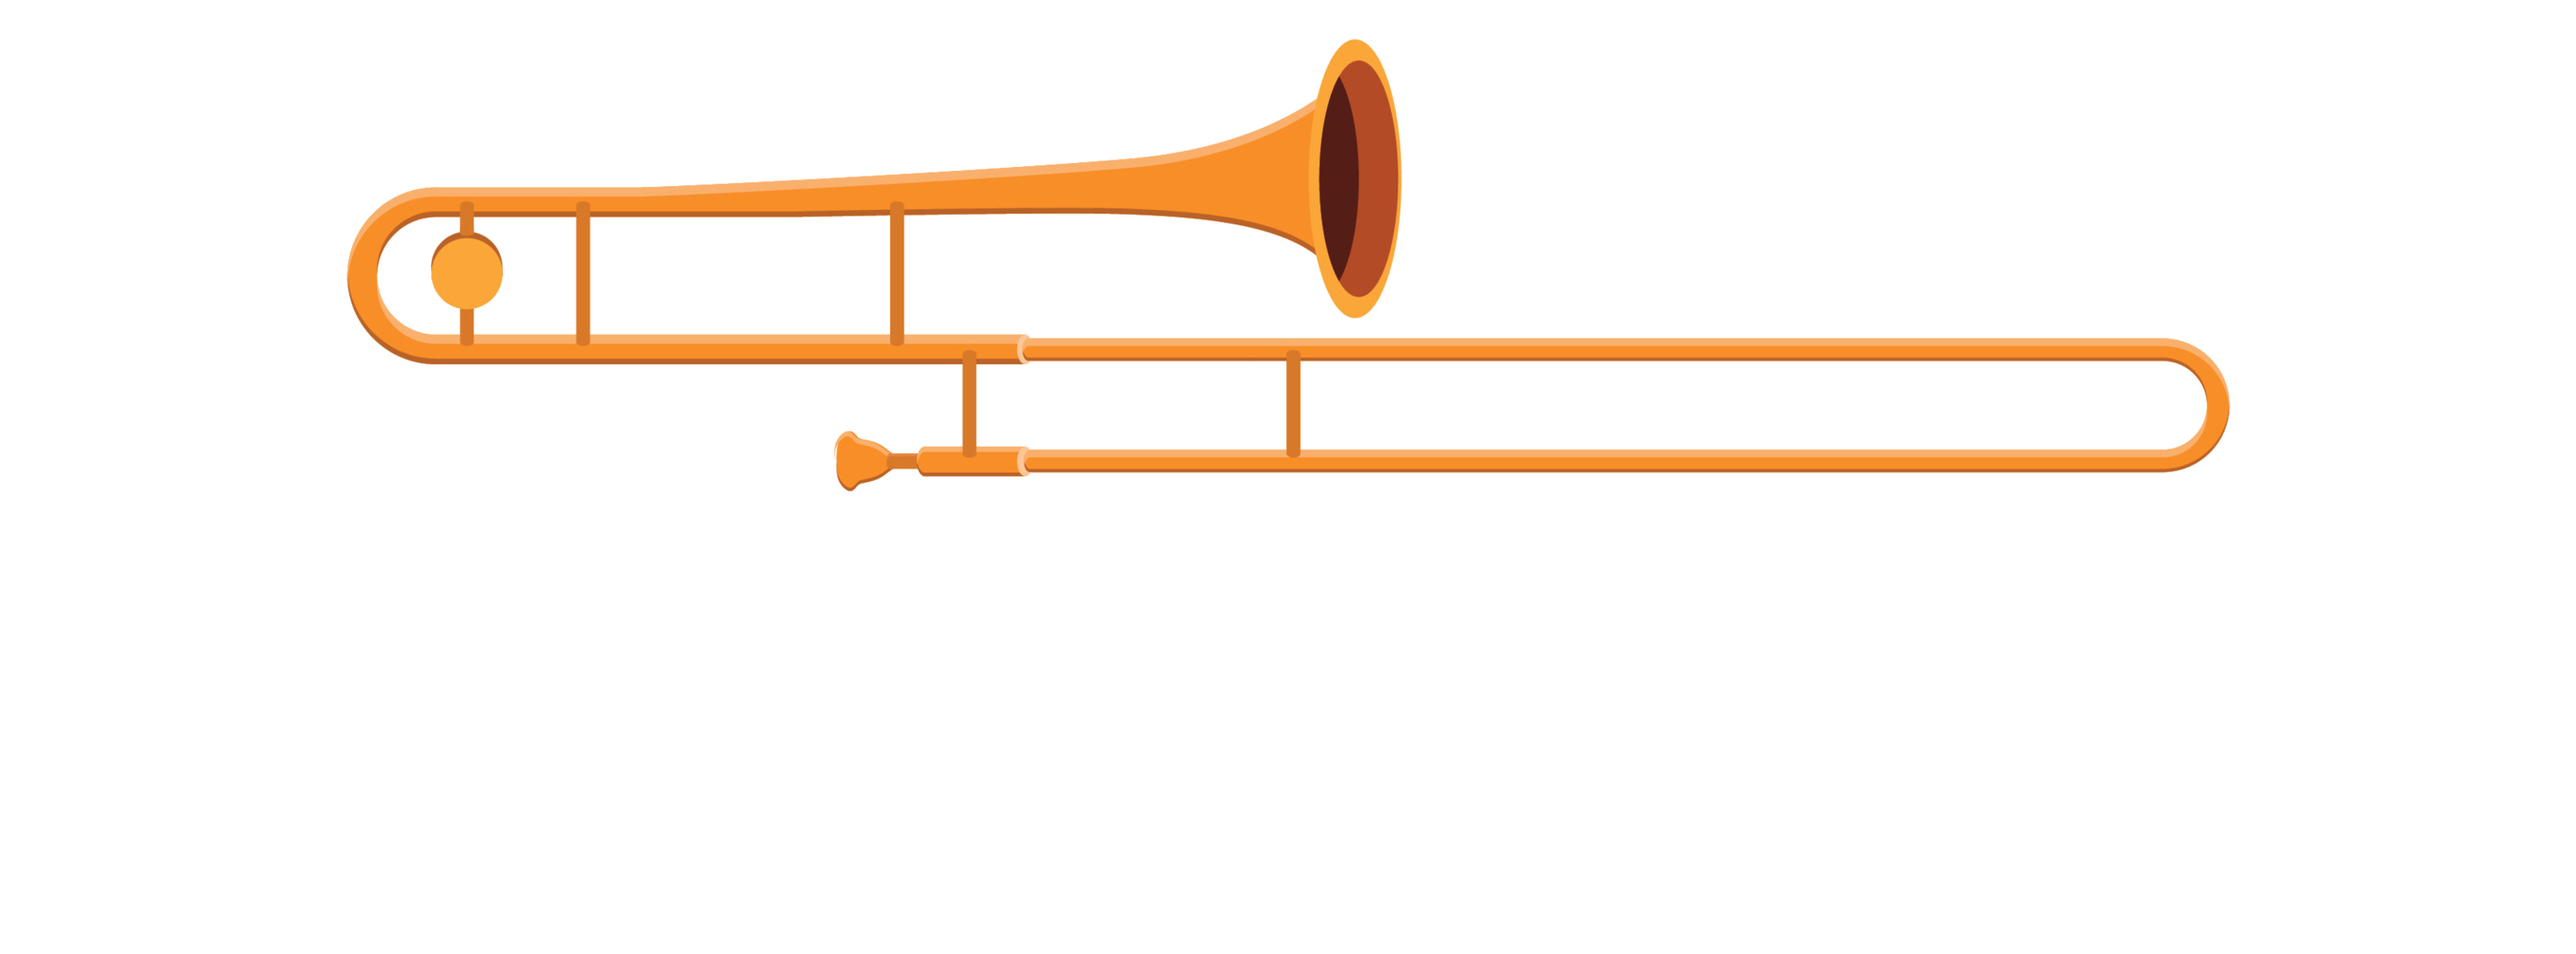
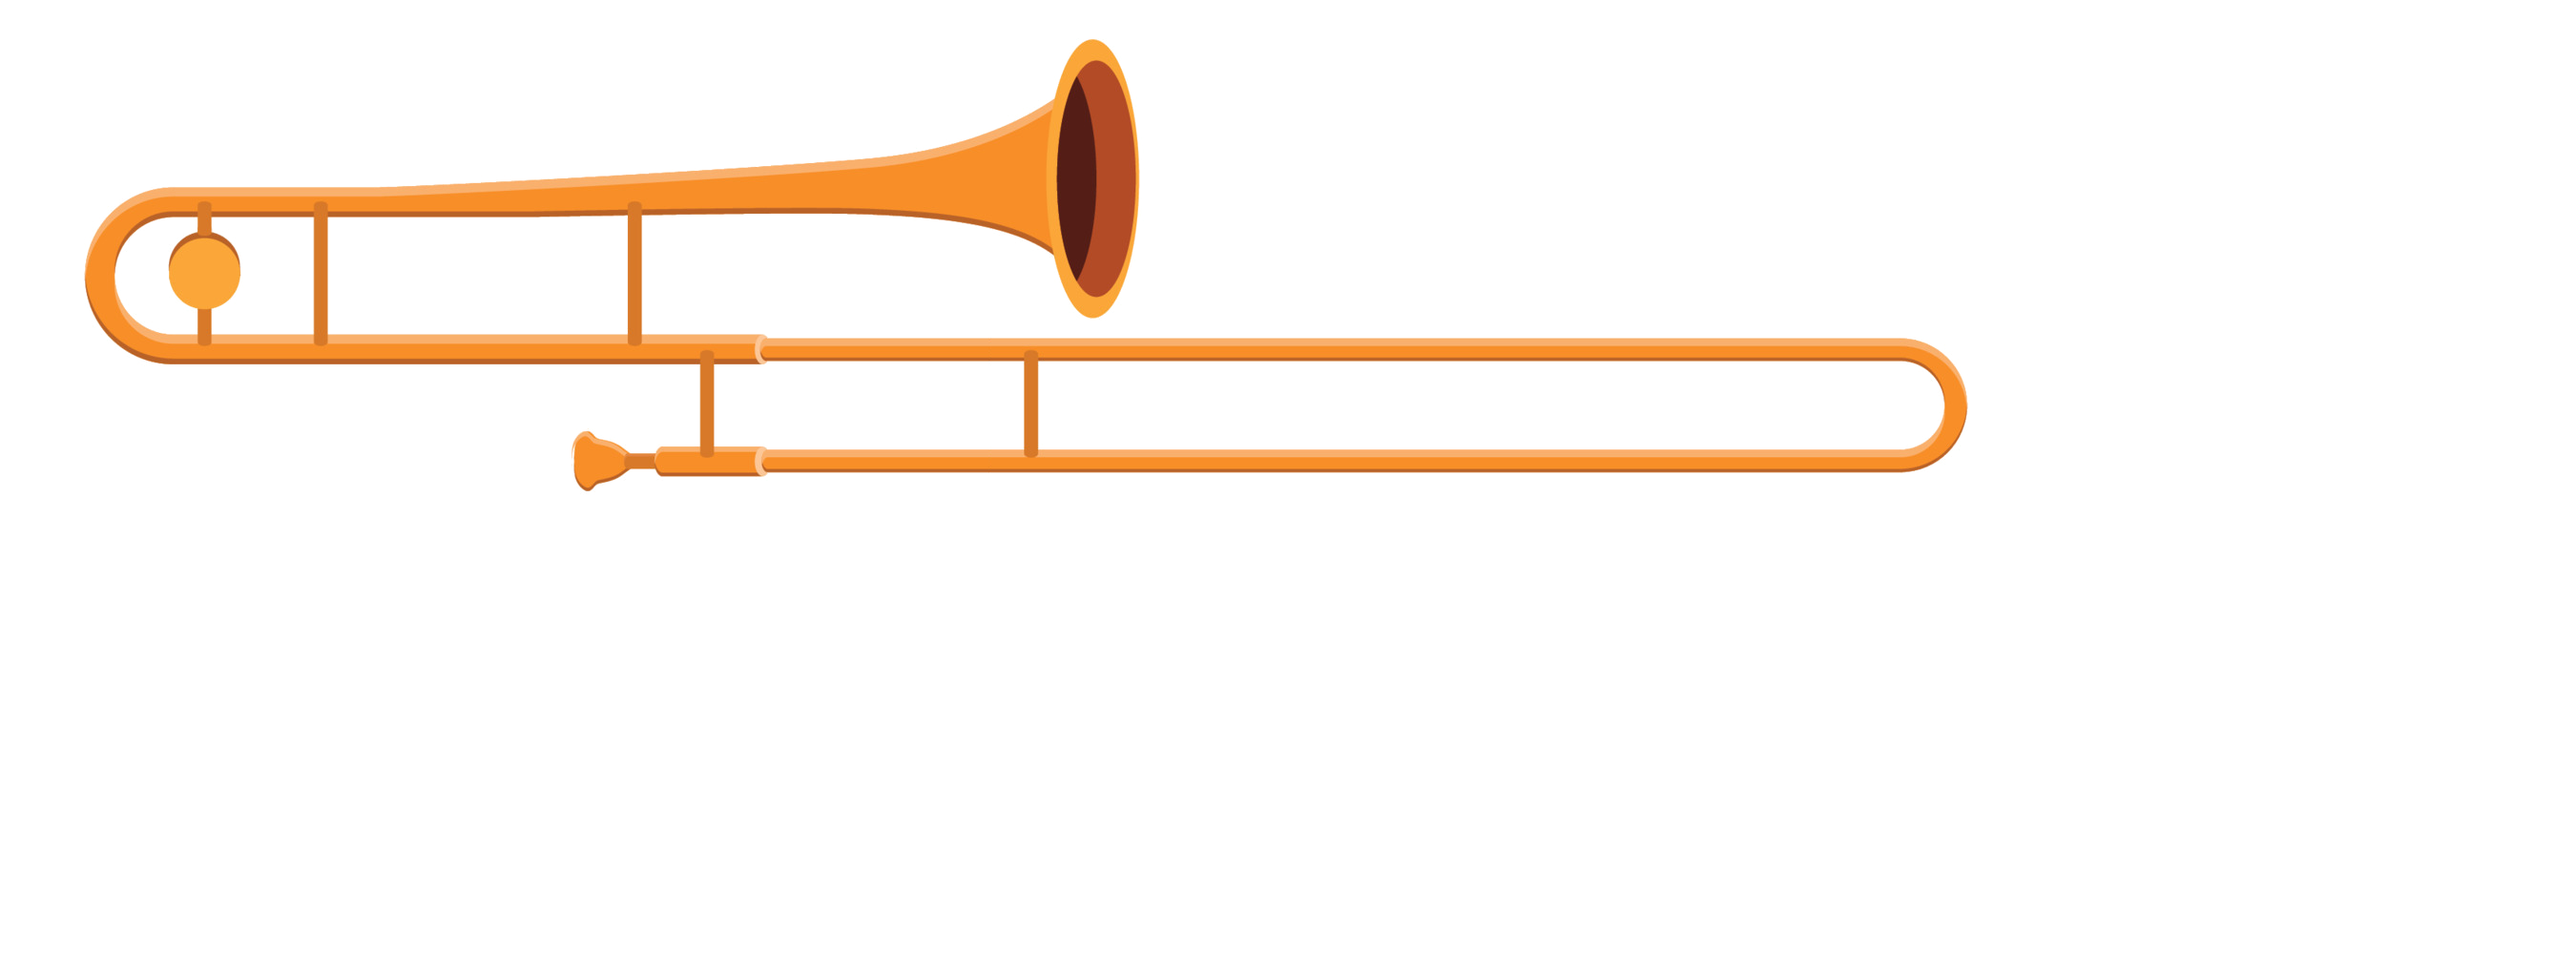
:lipstick: trombone drill — left-anchor artwork, bigger ruler labels

Changed region(s): [[0.0311, 0.031, 0.56, 0.527], [0.7467, 0.341, 0.8711, 0.496], [0.4978, 0.372, 0.5289, 0.465]]

diff --git a/web/src/styles/pages.css b/web/src/styles/pages.css
@@ -1338,14 +1338,13 @@
 }
 
 /* Ruler overlapping the bottom of the trombone, aligned to the brace travel
-   band of the image. Image is 2700x1000 (2.7:1); the slide brace travels
-   from x=1233 (pos-1) to x=1639 (pos-7), so the band is left:45.67%,
-   width:15.04% of the figure width. The image has ~230px of empty space
-   below the brace, so pulling the ruler up by 50px never covers it. */
+   band of the image. Image is 2700x1000 (2.7:1), artwork left-anchored
+   (body at x=88). The slide brace travels from x=842 (pos-1) to x=1639
+   (pos-7), so the band is left:31.19%, width:29.52% of the figure width. */
 .trombone-dragwell__ruler {
   position: relative;
-  width: 15.04%;
-  margin-left: 45.67%;
+  width: 29.52%;
+  margin-left: 31.19%;
   height: 44px;
   margin-top: -50px;
   pointer-events: none;
@@ -1384,11 +1383,11 @@
 .trombone-dragwell__ruler-tick-label {
   margin-top: 4px;
   font-family: var(--font-display);
-  font-size: var(--fs-xs);
+  font-size: var(--fs-sm);
   font-weight: 700;
   color: var(--ink-soft);
   line-height: 1;
-  padding: 1px 4px;
+  padding: 2px 6px;
   border-radius: var(--r-xs);
   background: var(--clay-white);
   box-shadow: var(--clay-inner-soft);

diff --git a/web/scripts/make_trombone_assets.py b/web/scripts/make_trombone_assets.py
@@ -37,10 +37,11 @@ GEOMETRY / METHOD:
   trims that away:
     * Y_OFFSET = 400 removes the empty band above the artwork, so it starts at
       y=40 (40 px of top padding) and ends at y=519.
-    * SHIFTS re-centers each variant: the slide layer moves with the body, so
-      the whole artwork (x 88 .. 1831 + E_p) is shifted by
-      1350 - (88 + 1831 + E_p) / 2 and lands centered on the canvas at every
-      position, with equal left/right margins (87 px at pos-7).
+    * The artwork is left-anchored (SHIFTS = 0): body at x=88, slide shifts
+      rightward by E_p. The right side of the canvas is intentionally empty
+      so the user can drag the visible trombone leftward through the slide
+      positions (pos-1 artwork is on the left, pos-7's extended slide
+      approaches the right edge).
   CSS in web/src/styles/pages.css keys off these numbers (ruler band, figure
   max-width, image max-height).
 """
@@ -67,18 +68,15 @@ OFFSETS = [0, 112, 231, 358, 492, 632, 782]
 N_POS = 7
 
 # -------------------------------------------------------------- new canvas
-CANVAS_W = 2700    # 87 px of margin either side of the pos-7 artwork
+CANVAS_W = 2700    # 88 px of left margin (artwork is left-anchored); pos-7 ends at x=2613
 CANVAS_H = 1000    # artwork occupies y 40..519; the rest is empty
 Y_OFFSET = 400     # trim the empty band above the artwork (topmost y is 440)
 
 
-def round_px(v: float) -> int:
-    """Round a pixel offset to the nearest whole pixel (halves away from zero)."""
-    return int(v + 0.5) if v >= 0 else -int(-v + 0.5)
-
-
-# Per-variant x shift that re-centers the artwork (slide included) on the canvas.
-SHIFTS = [round_px(CANVAS_W / 2 - (ART_X0 + CROOK_RIGHT_X1 + e) / 2) for e in OFFSETS]
+# Per-variant x shift. 0 = artwork stays at its source-px position
+# (left-anchored, mirroring the original 2742x1356 layout -- body at x=88,
+# slide shifts rightward with E_p).
+SHIFTS = [0] * N_POS
 
 # ---------------------------------------------------------------- load + cut
 src = Image.open(SRC).convert("RGB")
@@ -177,8 +175,7 @@ for p in range(1, N_POS + 1):
     out = os.path.join(OUT_DIR, f"trombone-pos-{p}.webp")
     canvas.save(out, format="WEBP", lossless=True)
     kb = os.path.getsize(out) / 1024
-    print(f"pos-{p}: offset={s:3d}px  x-shift={shift:+4d}px  "
-          f"artwork x {ART_X0 + shift}..{CROOK_RIGHT_X1 + s + shift}  "
+    print(f"pos-{p}: offset={s:3d}px  artwork x {ART_X0}..{CROOK_RIGHT_X1 + s}  "
           f"{CANVAS_W}x{CANVAS_H}  {kb:.0f} kB  -> {out}")
 
 # ------------------------------------------------------------------- checks
@@ -206,7 +203,7 @@ for y in range(pos1.height):
 print(f"pos-1: {bad_rgb} pixels with altered RGB (expect 0), "
       f"max channel delta vs source when composited over white: {max_delta}")
 
-# per-variant: artwork sits inside the canvas and is centered on it
+# per-variant: artwork sits inside the canvas and is left-anchored on it
 for p in range(1, N_POS + 1):
     im = Image.open(os.path.join(OUT_DIR, f"trombone-pos-{p}.webp")).convert("RGBA")
     ipx = im.load()
@@ -218,14 +215,13 @@ for p in range(1, N_POS + 1):
     expect = CROOK_RIGHT_X1 + OFFSETS[p - 1] + SHIFTS[p - 1]
     edge_ok = abs(right - expect) <= 2
     bbox = im.getbbox()
-    center = (bbox[0] + bbox[2]) / 2
-    centered_ok = abs(center - CANVAS_W / 2) <= 1
+    left_ok = abs(bbox[0] - ART_X0) <= 1
     print(f"pos-{p}: measured crook right x={right}, expected {expect} "
           f"(delta {right - expect:+d}) {'OK' if edge_ok else 'FAIL'}; "
-          f"artwork bbox x {bbox[0]}..{bbox[2]} (center {center}, want {CANVAS_W / 2}) "
-          f"{'OK' if centered_ok else 'FAIL'}, y {bbox[1]}..{bbox[3]}; "
+          f"artwork bbox x {bbox[0]}..{bbox[2]} (left edge {bbox[0]}, want {ART_X0}) "
+          f"{'OK' if left_ok else 'FAIL'}, y {bbox[1]}..{bbox[3]}; "
           f"bbox right {bbox[2]} <= canvas {im.width}: {bbox[2] <= im.width}")
-    assert edge_ok and centered_ok and bbox[2] <= im.width
+    assert edge_ok and left_ok and bbox[2] <= im.width
 
 # no opaque near-background specks anywhere in the widest variant
 pos7 = Image.open(os.path.join(OUT_DIR, "trombone-pos-7.webp")).convert("RGBA")
